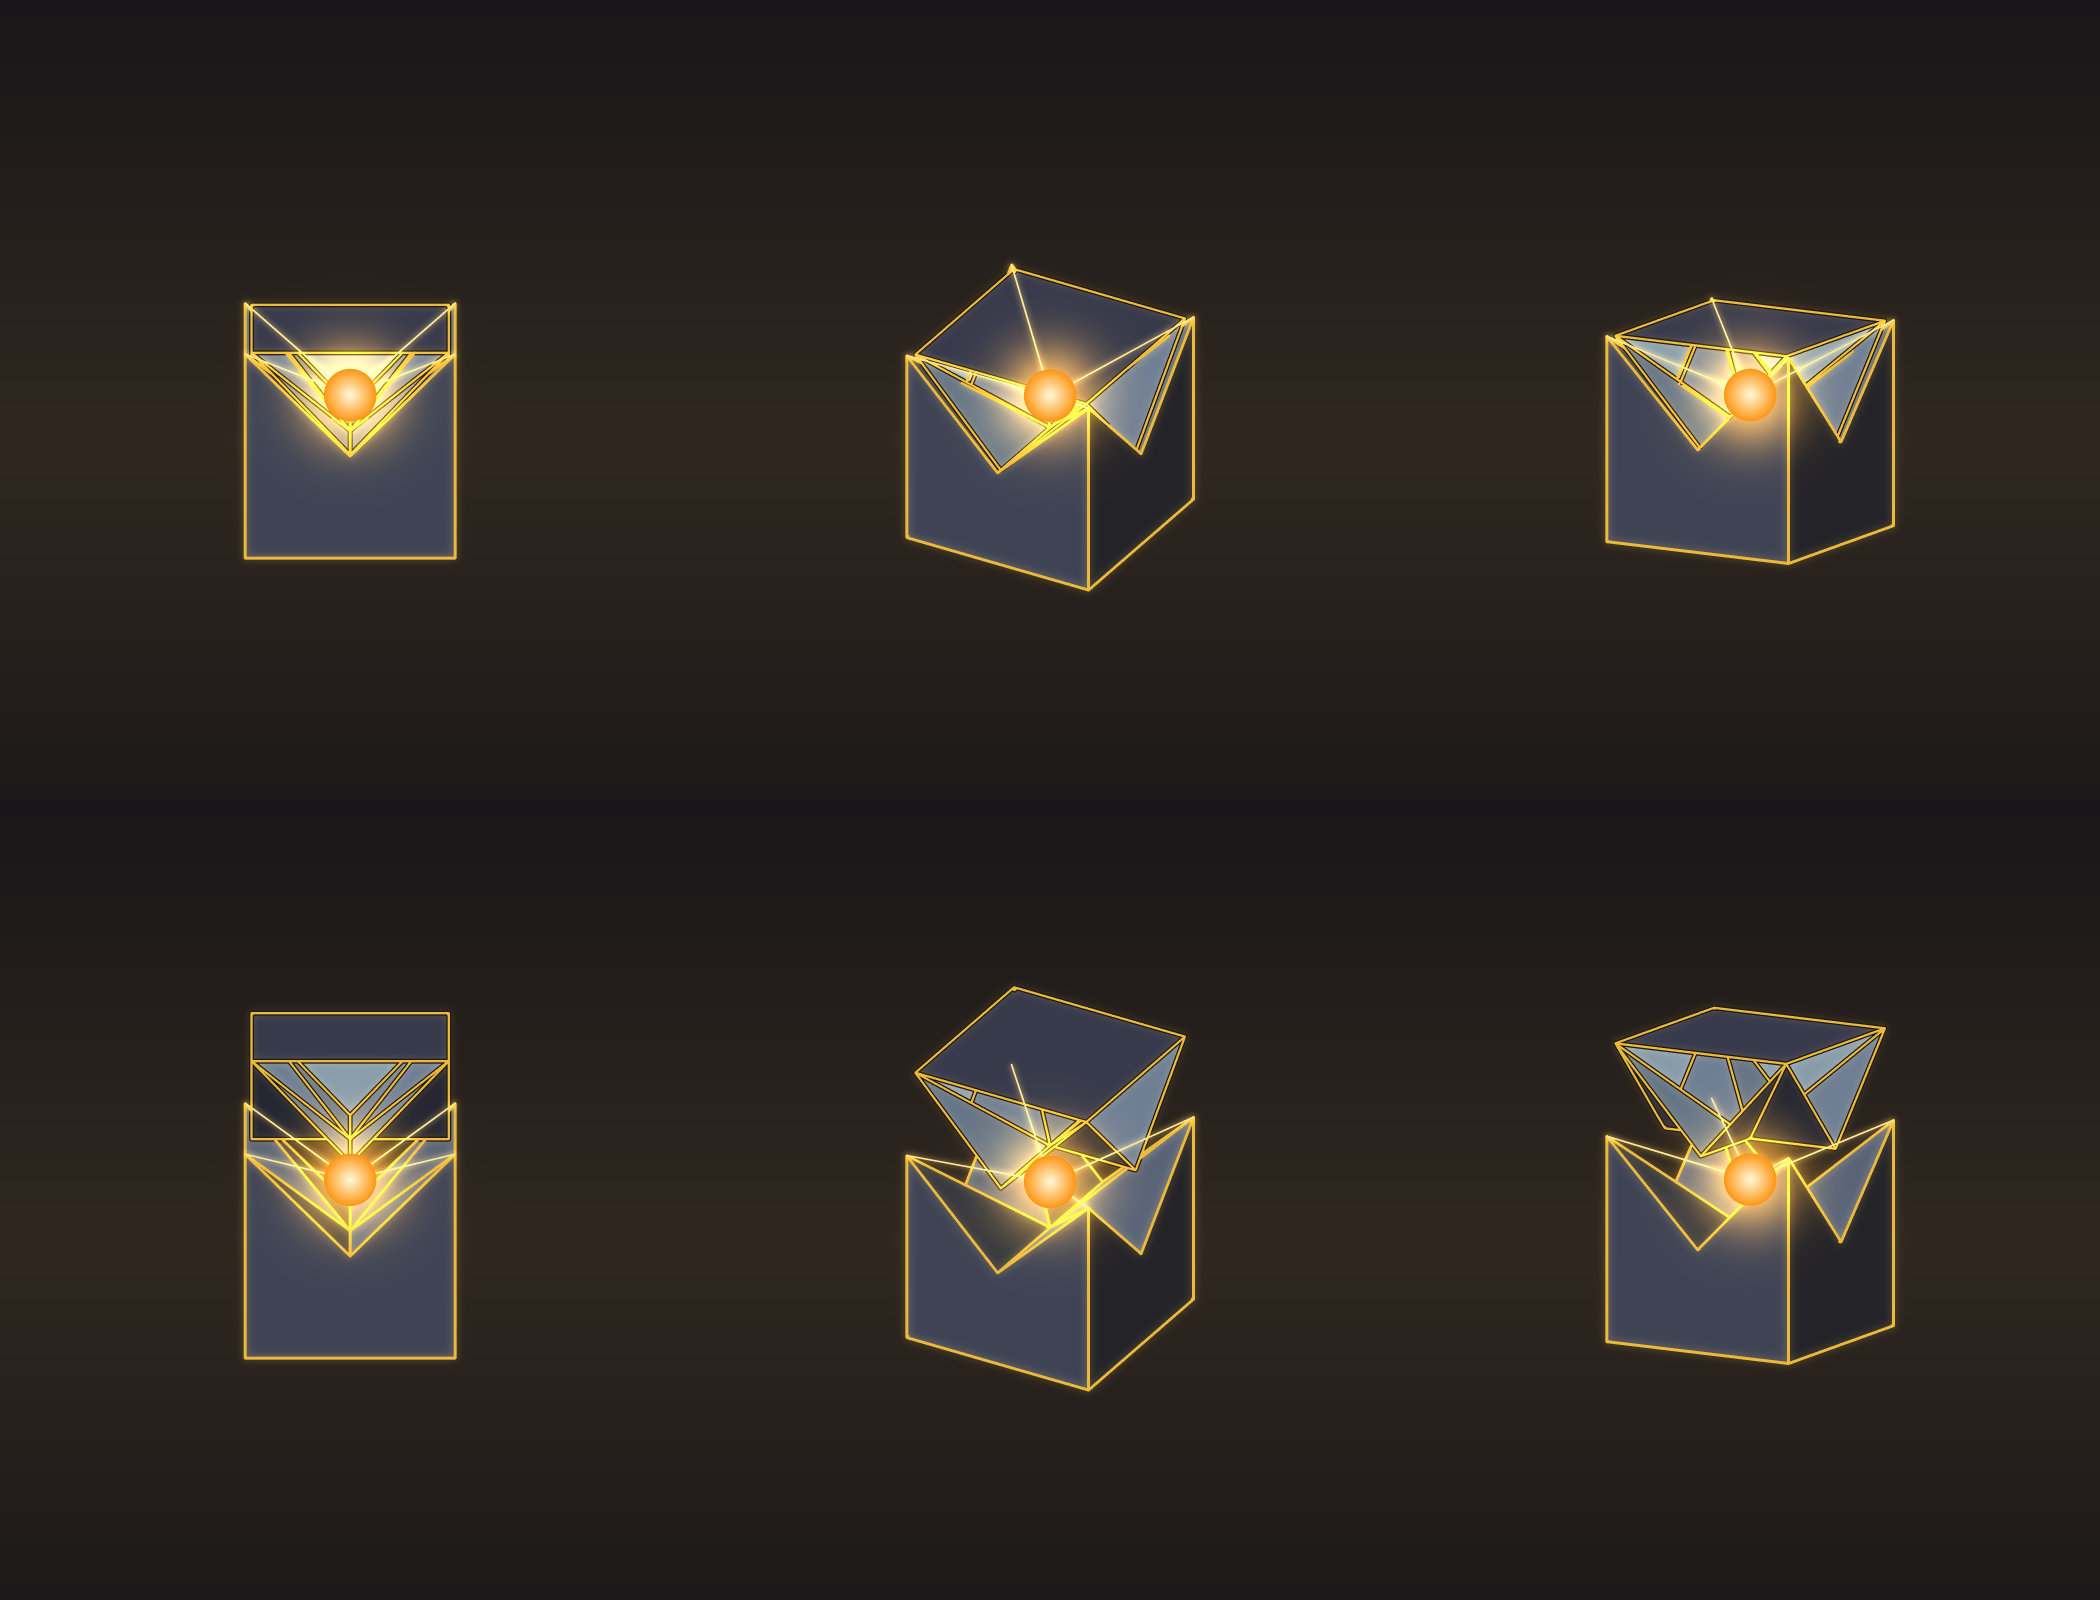
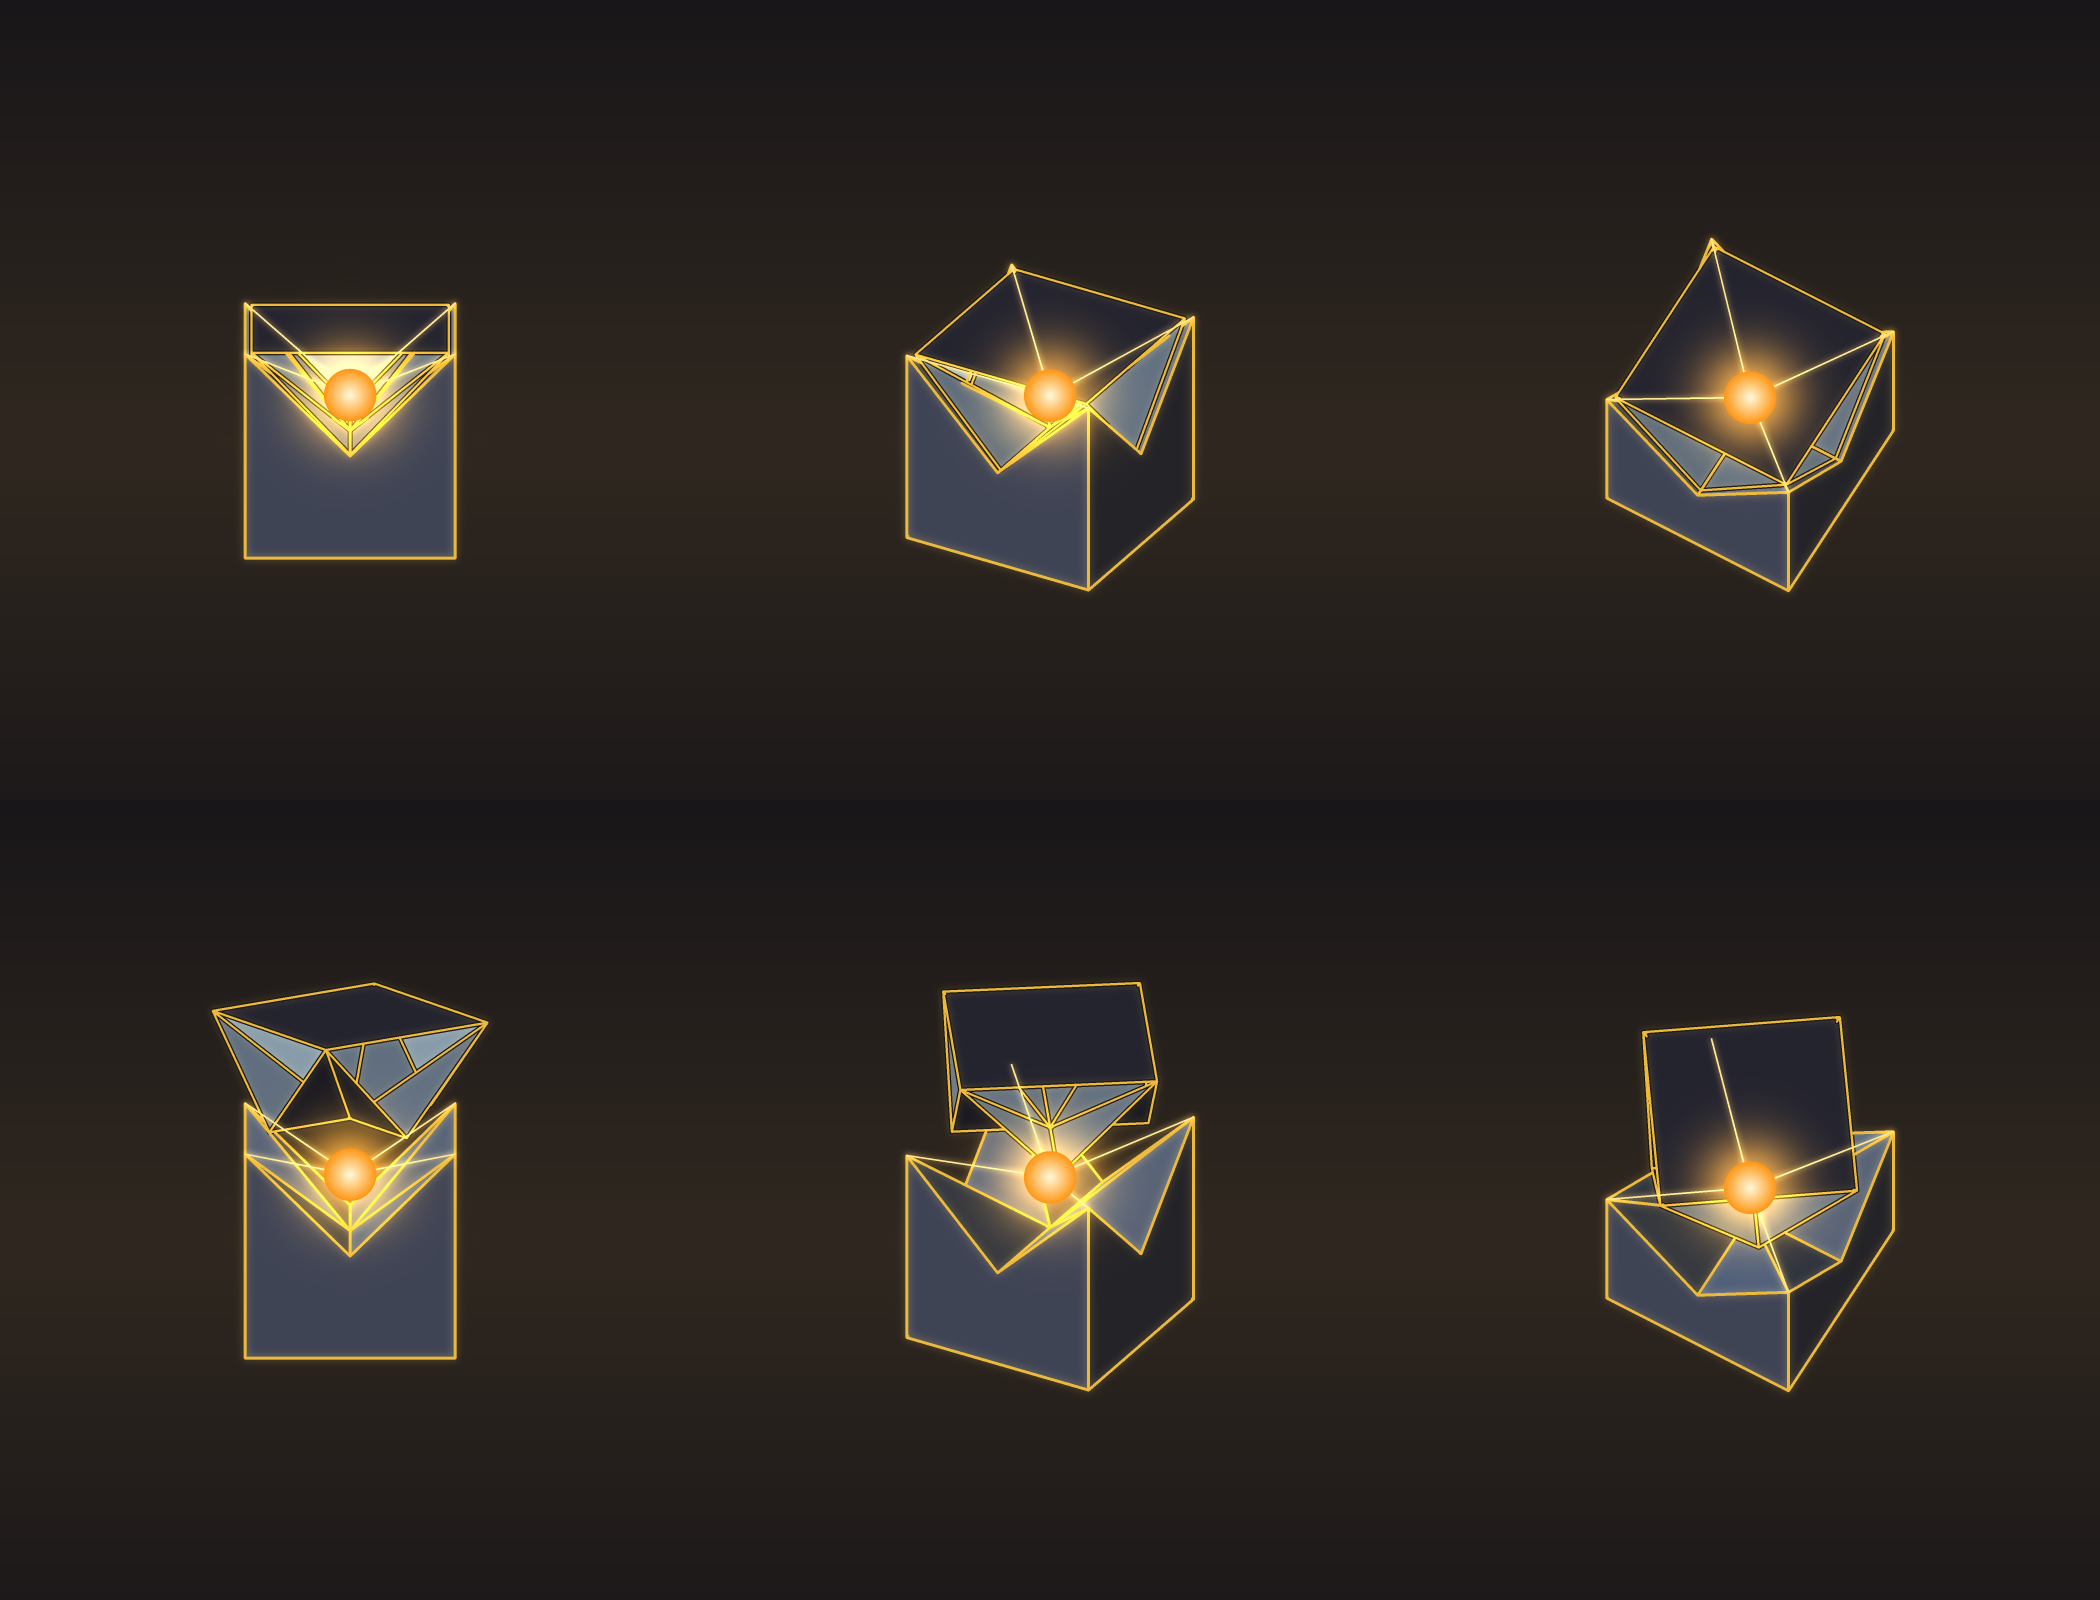
Sarkophag: Oberteil 35 Grad gedreht, Oberseite Obsidian
Claude-Session: https://claude.ai/code/session_01Sfa53cGMrQqhJfV4jcQ3vJ

diff --git a/CONTEXT.md b/CONTEXT.md
@@ -245,7 +245,7 @@ Ressourcen: Blockstates/Modelle (`core`, `core_active`, `siege_stone`, `siege_la
 | Story-Update 1 (Idee, 17.10.) | **Villager-Handel**: Bibliothekar verkauft die mythische Core-Rune (Grundbaustein des Kerns, keine Tafel), Geistlicher (Cleric) den mythischen Splash-Trank, Werkzeugschmied tauscht Upgrade-Werkzeug + Upgrade-Item (Diamant, Obsidian, Netherit) gegen die nächste Werkzeugstufe | Idee (Lore wird noch abgestimmt) |
 | Story-Update 2 (Idee, 17.10.) | **Kern erschaffen**: der **Sarkophag** ist die rohe Hülle ohne Kern und ersetzt das direkte Craften des Kern-Blocks (Rezept: 4 Obsidian in die Ecken, 4 Diamanten in die Seitenmitten, Mitte frei); Rechtsklick mit der Rune legt sie hinein, dann 24 Lohenstaub + 24 Schießpulver einlegen und den mythischen Trank darauf werfen, die Kettenreaktion erschafft und aktiviert den Kern (ersetzt die bisherige Aktivierung). **Mythischer Trank** = Splash-Trank, nur beim Cleric handelbar, nicht brauen, auf Spieler/Mobs geworfen starker Schaden + 10 s Brennen | Idee |
 | Story-Update 3 (Idee, 17.10.) | **Lore-Tab und Tafeln**: Lore-Tab im Kern-GUI (Lore lesen, Tafeln sehen, Upgrade starten); Tafeln als Items mit Lore-Text, Drops: Elder Guardian (Werkzeug 1, Level 1 bis 5), Warden (Werkzeug 2, bis 10), Enderdrache (Werkzeug 3, bis 15), Wither (Werkzeug 4, bis 19); Tafel nur per Upgrade-Werkzeug einfügen (Werkzeug rechte Hand, Tafel linke Hand, Rechtsklick auf den Kern); **Gravur auf der Tafel ist unlesbar, erst nach dem Einfügen im Lore-Tab lesbar**; jeder Tafeltext verbindet den Mob mit der Lore (warum er besiegt werden musste) und weist auf den nächsten Boss hin (Guide in der Geschichte); Werkzeugstufen Eisen, Diamant, Obsidian, Netherit; **Level 20 braucht ein besonderes Upgrade** (offen). Details im Lore-Entwurf | Idee |
-| Story-Update 5 (Idee, 18.10.) | **Sarkophag-Design** (Geometrie vom User bestätigt, exakte Referenz: `docs/sarkophag_referenz.png`; Würfel mit Kantenlänge 2, Oberfläche der unteren Hälfte y = 1 + min(abs(x), abs(z)), also V-Kerbe bis halbe Höhe auf allen 4 Seiten, vier Eckspitzen, Seitenansicht = Fünfeck; obere Hälfte = exakt das Stück, das dem Unterteil zum vollen Würfel fehlt (1 + min(abs(x), abs(z)) <= y <= 2), starr, mit flacher geschlossener Oberseite und vier dreieckigen Glasscheiben in den V-Kerben (bestätigt 18.10.: es wird NICHTS aufgeklappt; bei Aktivierung hebt sich das Oberteil einfach ein Stück nach oben aus dem Unterteil heraus und schwebt/dreht sich, Kern schwebt im Spalt; Referenz `docs/sarkophag_oberteil.png`): hohler Block in zwei Hälften geteilt: auf allen 4 Seiten Schnitt von der oberen Ecke 45° runter bis zur Blockmitte und 45° hoch zur nächsten Ecke; obere Hälfte = umgedrehte Pyramide, deren 4 Dreiecksseiten nicht zusammenlaufen, sondern aufgeklappt sind (Grundfläche = ganze Oberseite, Spitze in der Blockmitte), untere Hälfte = Rest mit pyramidenförmiger Aussparung; der Kern schwebt innen, die etwas kleinere obere Hälfte schwebt und dreht sich in der Aussparung; jedes der 4 Dreiecke der oberen Hälfte enthält eine durchsichtige Diamant-Scheibe, durch die man den Kern sieht (entschieden: dünner Obsidian-Gold-Rahmen um jede Scheibe, nicht zu dick); Stadien: leer, nur Core-Rune, nur Lohenstaub + Schießpulver, beides (Reihenfolge egal), Kern erschaffen; bis zur Erschaffung statisch, danach animiert (untere Hälfte statisch, Kern schwebt leicht auf und ab und dreht sich mit Lasern, kleinere obere Hälfte schwebt und dreht gegenläufig innerhalb der unteren); Aktivierung als magische Transformer-Animation mit Funken, Partikeln und Blitz; löst das bisherige Aufklappen (v0.10.1.3) ab; die Hülle bleibt nach der Aktivierung dauerhaft offen | Idee |
+| Story-Update 5 (Idee, 18.10.) | **Sarkophag-Design** (Geometrie vom User bestätigt, exakte Referenz: `docs/sarkophag_referenz.png`; Würfel mit Kantenlänge 2, Oberfläche der unteren Hälfte y = 1 + min(abs(x), abs(z)), also V-Kerbe bis halbe Höhe auf allen 4 Seiten, vier Eckspitzen, Seitenansicht = Fünfeck; obere Hälfte = exakt das Stück, das dem Unterteil zum vollen Würfel fehlt (1 + min(abs(x), abs(z)) <= y <= 2), starr, mit flacher geschlossener Oberseite und vier dreieckigen Glasscheiben in den V-Kerben (bestätigt 18.10.: es wird NICHTS aufgeklappt; bei Aktivierung hebt sich das Oberteil einfach ein Stück nach oben aus dem Unterteil heraus und schwebt, dabei gegenüber dem Unterteil um ca. 35° um die Hochachse gedreht (Spitzen versetzt, fast berührend; Oberseite Obsidian, nur die 4 Seitendreiecke Glas), Kern schwebt im Spalt; Referenz `docs/sarkophag_oberteil.png`): hohler Block in zwei Hälften geteilt: auf allen 4 Seiten Schnitt von der oberen Ecke 45° runter bis zur Blockmitte und 45° hoch zur nächsten Ecke; obere Hälfte = umgedrehte Pyramide, deren 4 Dreiecksseiten nicht zusammenlaufen, sondern aufgeklappt sind (Grundfläche = ganze Oberseite, Spitze in der Blockmitte), untere Hälfte = Rest mit pyramidenförmiger Aussparung; der Kern schwebt innen, die etwas kleinere obere Hälfte schwebt und dreht sich in der Aussparung; jedes der 4 Dreiecke der oberen Hälfte enthält eine durchsichtige Diamant-Scheibe, durch die man den Kern sieht (entschieden: dünner Obsidian-Gold-Rahmen um jede Scheibe, nicht zu dick); Stadien: leer, nur Core-Rune, nur Lohenstaub + Schießpulver, beides (Reihenfolge egal), Kern erschaffen; bis zur Erschaffung statisch, danach animiert (untere Hälfte statisch, Kern schwebt leicht auf und ab und dreht sich mit Lasern, kleinere obere Hälfte schwebt und dreht gegenläufig innerhalb der unteren); Aktivierung als magische Transformer-Animation mit Funken, Partikeln und Blitz; löst das bisherige Aufklappen (v0.10.1.3) ab; die Hülle bleibt nach der Aktivierung dauerhaft offen | Idee |
 | Story-Update 4 (Idee, 17.10.) | **Generäle als echte Souls-like-Bosse** bei Stufe 5 (Späher), 10 (Brecher), 15 (Seelenwirker) und Varkhul bei 20 (Mischung aus allem: viel Schaden, sehr tanky, Magie, gibt Spielern u.a. Nausea; Verbindung zum Prestige in v0.20 prüfen): eigene große Modelle (kein Standard-Mob), eigene Animationen, Bewegungen, Zauber und Phasen; Lore-Fragmente und Texte im Spiel | Idee |
 | danach | XP-Lager, Balancing (Zahlen), Config-Feinschliff, Brennstoff, Create-Integration; offen: Max-Stufe 20 oder 30/40/50 | |
 
